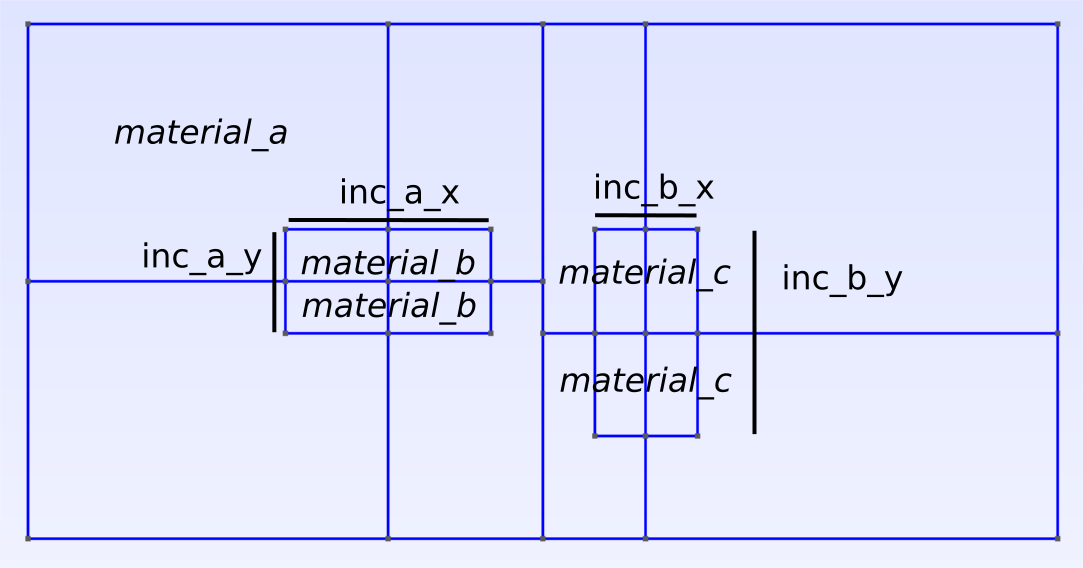
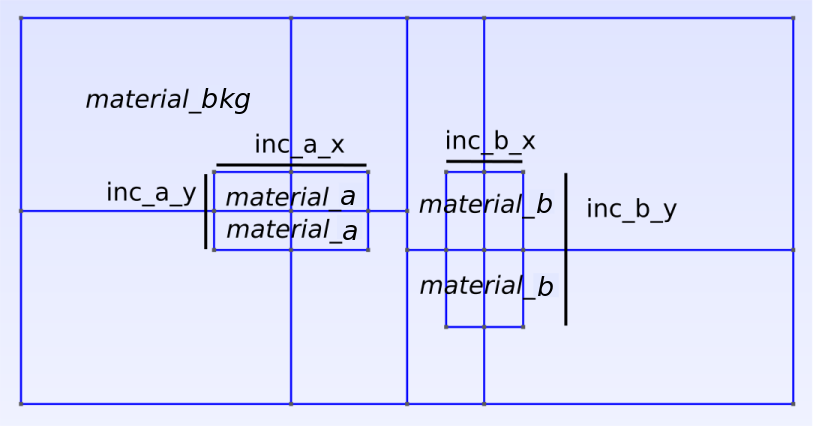
Changed naming of material regions to be consistent w geo dimensions.

diff --git a/backend/integration.py b/backend/integration.py
@@ -77,13 +77,13 @@ def gain_and_qs(sim_EM_pump, sim_EM_Stokes, sim_AC, k_AC,
                 calculating the acoustic loss (alpha).
 
         Returns:
-            SBS_gain  (num_modes_EM_Stokes,num_modes_EM_pump,num_modes_AC): The SBS gain including both photoelastic and moving boundary contributions.
+            SBS_gain  : The SBS gain including both photoelastic and moving boundary contributions. Dimensions = (num_modes_EM_Stokes,num_modes_EM_pump,num_modes_AC)
 
-            SBS_gain_PE  (num_modes_EM_Stokes,num_modes_EM_pump,num_modes_AC): The SBS gain for only the photoelastic effect.
+            SBS_gain_PE  : The SBS gain for only the photoelastic effect. Dimensions = (num_modes_EM_Stokes,num_modes_EM_pump,num_modes_AC)
             
-            SBS_gain_MB  (num_modes_EM_Stokes,num_modes_EM_pump,num_modes_AC): The SBS gain for only the moving boundary effect.
+            SBS_gain_MB  : The SBS gain for only the moving boundary effect. Dimensions = (num_modes_EM_Stokes,num_modes_EM_pump,num_modes_AC)
 
-            alpha  (num_modes_AC): The acoustic loss for each mode.
+            alpha  : The acoustic loss for each mode. Dimensions = (num_modes_AC)
     """
 
     # Notes about internals of fortran integration

diff --git a/tutorials/simo-tut_01-first_calc.py b/tutorials/simo-tut_01-first_calc.py
@@ -51,7 +51,7 @@ AC_ival = 'All'
 wguide = objects.Struct(unitcell_x,inc_a_x,unitcell_y,inc_a_y,inc_shape,
                         material_bkg=materials.Air,
                         material_a=materials.Si_2016_Smith,
-                        lc_bkg=2, lc2=200.0, lc3=5.0, check_msh=True)
+                        lc_bkg=2, lc2=200.0, lc3=5.0, check_msh=False)
 
 # # Explicitly remind ourselves what data we're using.
 # print('\n Using %s material data from' % wguide.material_b.chemical)
@@ -60,7 +60,7 @@ wguide = objects.Struct(unitcell_x,inc_a_x,unitcell_y,inc_a_y,inc_shape,
 # print('Ref:', wguide.material_b.doi)
 
 # Expected effective index of fundamental guided mode.
-n_eff = wguide.material_b.n-0.1
+n_eff = wguide.material_a.n-0.1
 
 # Calculate the Electromagnetic modes of the pump field.
 sim_EM_pump = wguide.calc_EM_modes(num_modes_EM_pump, wl_nm, n_eff)

diff --git a/backend/objects.py b/backend/objects.py
@@ -95,7 +95,7 @@ class Struct(object):
                 (smaller = finer mesh)
 
             lc2  (float): factor by which lc_bkg will be reduced on inclusion
-                surfaces; lc_surface = cl_bkg / lc2.
+                surfaces; lc_surface = lc_bkg / lc2. Larger lc2 = finer mesh.
 
             lc3-6'  (float): factor by which lc_bkg will be reduced at center
                 of inclusions.
@@ -179,7 +179,7 @@ class Struct(object):
         # Structures material properties - need to check geometry definition 
         # to ensure connecting material type with correct surface of geometry
         self.material_bkg = material_bkg
-        self.material_a = material_a, material_a
+        self.material_a = material_a
         self.material_b = material_b
         self.material_c = material_c
         self.material_d = material_d

diff --git a/tests/test_case_0_rect_silicon.py b/tests/test_case_0_rect_silicon.py
@@ -83,12 +83,12 @@ start = time.time()
 
 # Use all specified parameters to create a waveguide object.
 wguide = objects.Struct(unitcell_x,inc_a_x,unitcell_y,inc_a_y,inc_shape,
-                        material_a=materials.Air,
-                        material_b=materials.Material(Si_props),
+                        material_bkg=materials.Air,
+                        material_a=materials.Material(Si_props),
                         lc_bkg=3, lc2=3000.0, lc3=1000.0)
 
 # Expected effective index of fundamental guided mode.
-n_eff = wguide.material_b.n-0.1
+n_eff = wguide.material_a.n-0.1
 
 # Calculate Electromagnetic Modes
 sim_EM_pump = wguide.calc_EM_modes(num_modes_EM_pump, wl_nm, n_eff=n_eff)
